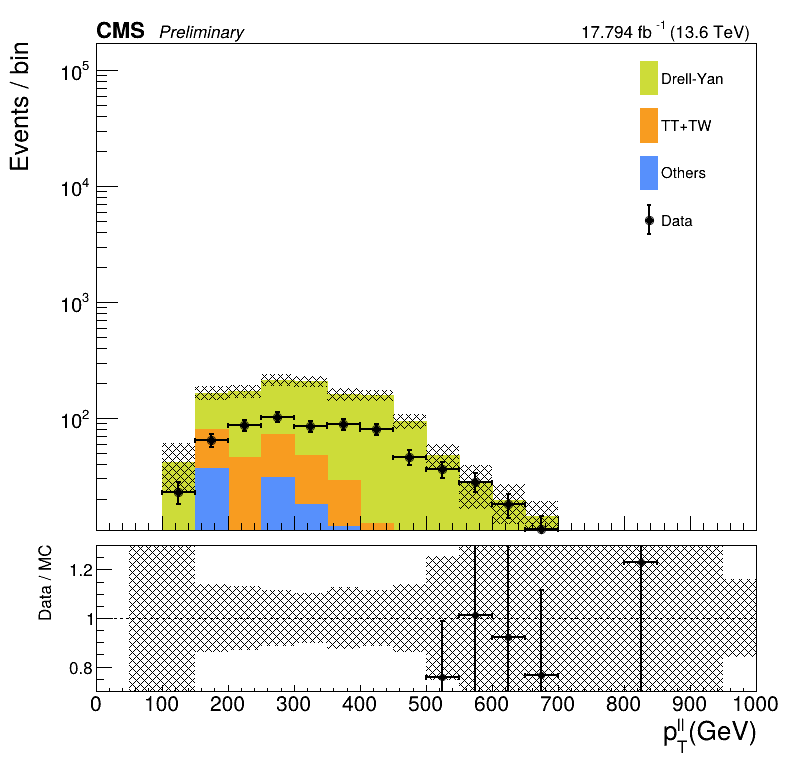
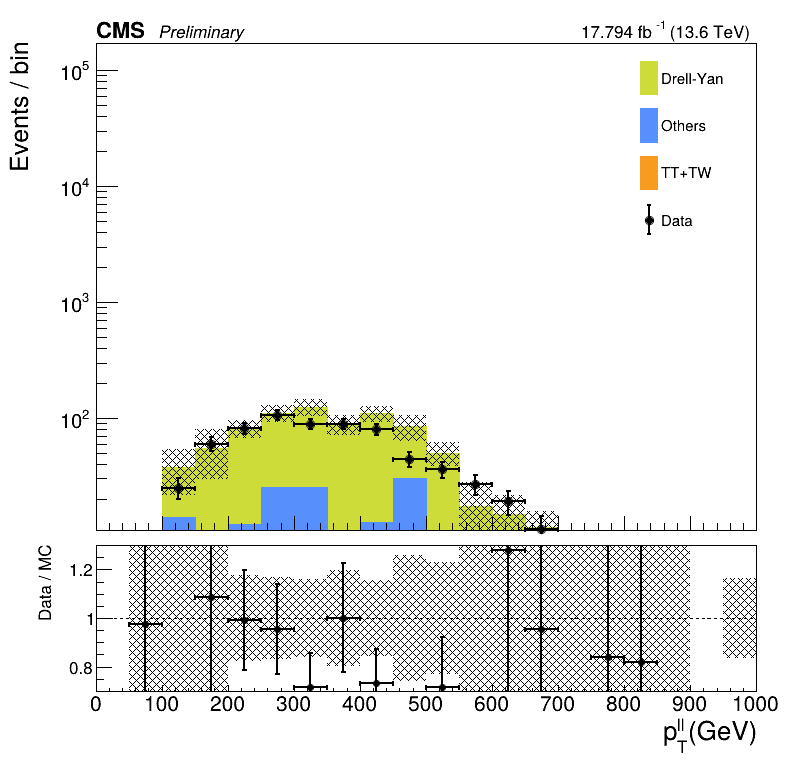
backup 25.12.24

diff --git a/Analyzers/src/Reproduce20_002.cc b/Analyzers/src/Reproduce20_002.cc
@@ -788,6 +788,17 @@ void Reproduce20_002::executeEventFromParameter() {
                             FillHist(this_syst + "/WRCand_mass_boosted_DY", WRCand.M() , weight, 8000, 0., 8000.);
                             if ( WRCand.M() > 800.0 )  {
                                 FillHist(this_syst + "/Boost_cutflow_DY", 6 , weight, 20,-10,10.);
+                                // DY CR
+                                if (is_tmp_lead_el){ // ee 
+                                        FillHist(this_syst + "/pt(ll)_boosted_DY_CR_EE", (*LeadLep + *LowMllLooseLepton).Pt(), weight, 1000, 0., 1000.);
+                                        FillHist(this_syst + "/leading_fatjet_pt_boosted_DY_CR_EE", HNFatJet.Pt(), weight, 2000, 0., 2000.);
+                                        FillHist(this_syst + "/m(lljj)_boosted_DY_CR_EE", WRCand.M(), weight, 8000, 0., 8000.);
+                                    }
+                                    if (is_tmp_lead_mu){// mumu
+                                        FillHist(this_syst + "/pt(ll)_boosted_DY_CR_MM", (*LeadLep + *LowMllLooseLepton).Pt(), weight, 1000, 0., 1000.);
+                                        FillHist(this_syst + "/leading_fatjet_pt_boosted_DY_CR_MM", HNFatJet.Pt(), weight, 2000, 0., 2000.);
+                                        FillHist(this_syst + "/m(lljj)_boosted_DY_CR_MM", WRCand.M(), weight, 8000, 0., 8000.);
+                                    }
                                 if (lowmllmass < 100){
                             // Boosted CR1    
                                     if (is_tmp_lead_el){ // ee 

diff --git a/plots/reproduce/Boosted/DY/2023/plot_EE.py b/plots/reproduce/Boosted/DY/2023/plot_EE.py
@@ -273,6 +273,9 @@ class SignalBackgroundCanvas():
         groups = {
             "TT+TW": [],
             "DYJets": [],
+            "WJets": [],
+            "VV": [],
+            "QCD": [],
             "Others": []
         }
         
@@ -301,6 +304,12 @@ class SignalBackgroundCanvas():
                 groups["TT+TW"].append((name, hist))
             elif name.startswith("DYJets"):
                 groups["DYJets"].append((name, hist))
+            elif name.startswith("WJets"):
+                groups["WJets"].append((name, hist))
+            elif name.startswith("WZ") or name.startswith("ZZ") or name.startswith("WW"):
+                groups["VV"].append((name, hist))
+            elif name.startswith("QCD"):
+                groups["QCD"].append((name, hist))
             else:
                 groups["Others"].append((name, hist))
         
@@ -308,7 +317,10 @@ class SignalBackgroundCanvas():
         self.grouped_hists = {}
         group_colors = {
             "TT+TW": BACKGROUND_COLORS[1],
+            "WJets": BACKGROUND_COLORS[2],
             "DYJets": BACKGROUND_COLORS[3],
+            "VV": BACKGROUND_COLORS[4],
+            "QCD": BACKGROUND_COLORS[5],
             "Others": BACKGROUND_COLORS[0]  
         }
         

diff --git a/plots/reproduce/Boosted/DY/2023/plot_MM.py b/plots/reproduce/Boosted/DY/2023/plot_MM.py
@@ -273,6 +273,9 @@ class SignalBackgroundCanvas():
         groups = {
             "TT+TW": [],
             "DYJets": [],
+            "WJets": [],
+            "VV": [],
+            "QCD": [],
             "Others": []
         }
         
@@ -301,6 +304,12 @@ class SignalBackgroundCanvas():
                 groups["TT+TW"].append((name, hist))
             elif name.startswith("DYJets"):
                 groups["DYJets"].append((name, hist))
+            elif name.startswith("WJets"):
+                groups["WJets"].append((name, hist))
+            elif name.startswith("WZ") or name.startswith("ZZ") or name.startswith("WW"):
+                groups["VV"].append((name, hist))
+            elif name.startswith("QCD"):
+                groups["QCD"].append((name, hist))
             else:
                 groups["Others"].append((name, hist))
         
@@ -308,7 +317,10 @@ class SignalBackgroundCanvas():
         self.grouped_hists = {}
         group_colors = {
             "TT+TW": BACKGROUND_COLORS[1],
+            "WJets": BACKGROUND_COLORS[2],
             "DYJets": BACKGROUND_COLORS[3],
+            "VV": BACKGROUND_COLORS[4],
+            "QCD": BACKGROUND_COLORS[5],
             "Others": BACKGROUND_COLORS[0]  
         }
         
